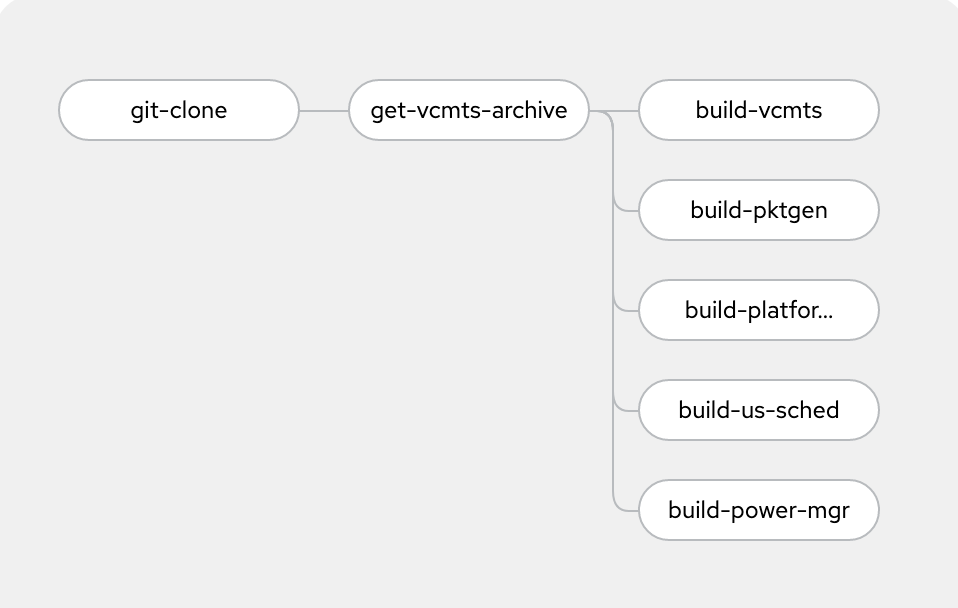
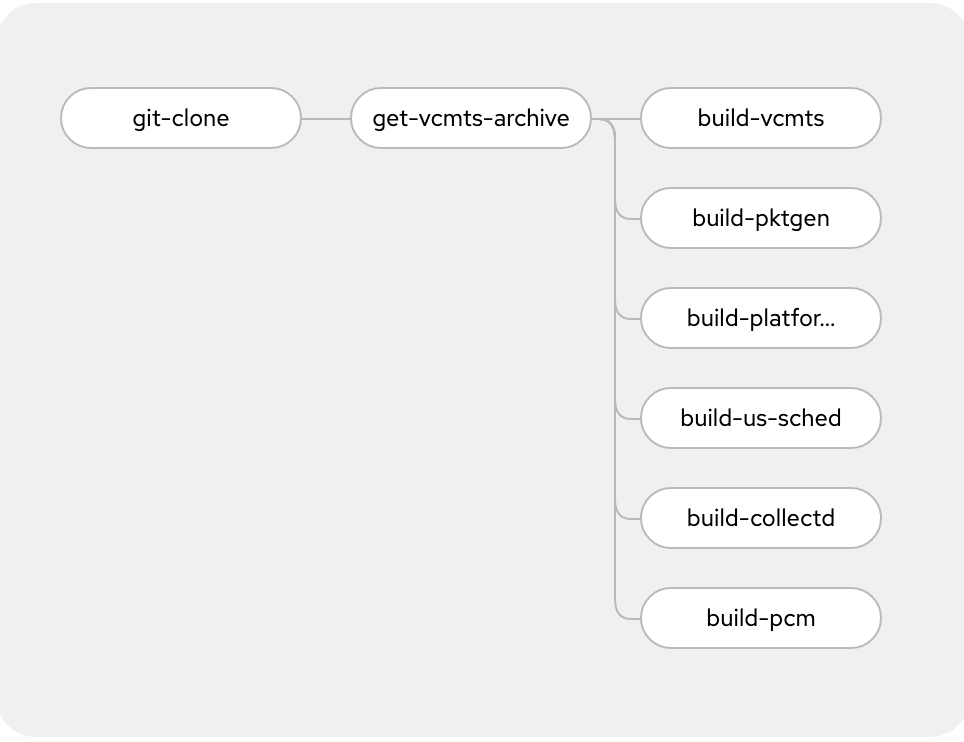
Use PCM to monitor memory bandwidth utilization (#5)
* Update docs

* Add grafana instance and dashboard

* Collectd build scripts

* Update pipeline to build collectd

* Create ingress for Grafana

* Do not source local build var

* Add missing namespace to registry url

* Update collectd to publish metrics

* Attempt to integrate metrics in grafana

* Add support for collectd monitoring and metrics scrapping

* Update vcmts and collectd

* Added missing plugins on Grafana dashboards

* Added performance profile for pktgen and vcmts

* Activate vCMTS app statistics

* Do not get rpm docs for container build

* Use cpu pinning and disable cpu load balancing

* Initial build for pcm tool

* Fix pcm build

* Comment out local variables

* Fix build in container + add env for vcmts environment

* Fix pcm build

* Add pipeline build for PCM

* Fix pcm chmod command

* Update documentation

* Update doc

Changed region(s): [[0.0605, 0.0938, 0.9384, 0.9062], [0.9081, 0.1562, 0.9384, 0.1875]]

diff --git a/README.md b/README.md
@@ -6,9 +6,10 @@
 - [Introduction](#introduction)
 - [Prerequisities](#prerequisities)
 - [Build Container Images](#build-container-images)
-- [Network Setup](#network-setup)
+- [SRIOV Configurationp](#sriov-configuration)
 - [Monitoring](#monitoring)
 - [Deploy the application](#deploy-the-application)
+- [Start the application](#start-the-application)
 <!-- TOC -->
 
 ## Introduction
@@ -17,27 +18,133 @@ This document describes how to build, install and run the Intel vCMTS reference 
 
 ## Prerequisities
 
+Ensure to have the following elements in hand and/or deployed. For the various operators, following the links to see how they can be deployed.
+
   - Intel vCMTS Package
   - Red Hat OpenShift version 4.8.20
-  - Red Hat OpenShift Data Foundation
-  - Red Hat OpenShift Pipeline
+    - Red Hat OpenShift Data Foundation
+    - [Red Hat OpenShift Pipeline Operator](https://docs.openshift.com/container-platform/4.8/cicd/pipelines/installing-pipelines.html)
+    - [SR-IOV Network Operator](https://docs.openshift.com/container-platform/4.8/networking/hardware_networks/installing-sriov-operator.html)
+    - [Performance Addon Operator](https://docs.openshift.com/container-platform/4.8/scalability_and_performance/cnf-performance-addon-operator-for-low-latency-nodes.html#installing-the-performance-addon-operator_cnf-master)
+    - [Grafana Operator](https://operatorhub.io/operator/grafana-operator)
+  - Helm 3
   - Podman / Buildah (for local build only)
-  - Helm 3 (for local build only)
 
 ## Build Container Images
 They are two ways to build the vCMTS related applications, please see [build options](build/README.md).
 
-## Network Setup
+## Node configuration
+In order to enable advanced node performance tunings, we are using the Performance Addon Operator.
 
-#### SRIOV Resource pools
+The setup is comprised of two servers, one dedicated for packet generation, and one dedicated to run the vCMTS.
 
-We need to split virtual functions (VFs) from the same physical function (PF) into multiple resource pools in order to segragate and dedicate traffic per VF for Upstream and Downstream.
+Both servers need to be configured with appropriate CPU isolation and Hugepages. Their corresponding profile has been defined and can be applied as follow
 
-Each PF is divided into 8 VFs:
+~~~
+oc apply -f config/pao/vcmts-profile.yaml
+oc apply -f config/pao/pktgen-profile.yaml
+~~~
+
+## SRIOV Configuration
+
+Both servers are connected back-to-back through E810 network interface, that each of two ports.
+
+Virtual functions (VFs) from the same physical function (PF) are split into two resource pools in order to segragate and dedicate  Upstream and Downstream traffic.
+
+As such, each PF is divided into 8 VFs:
 - even VFs are be for upstream traffic
 - odd VFs are for downstream traffic
 
-Find the manifest in the [config/sriov folder](config/sriov).
+Here is an overall diagram showing the setup
+
+![](assets/vcmts-intel-lab.png)
+
+Start by applying the `SriovNetworkNodePolicy` to configure the VF in the PFs.
+~~~
+oc apply -f config/sriov/node-policy/vcmts-us.yaml
+oc apply -f config/sriov/node-policy/vcmts-ds.yaml
+oc apply -f config/sriov/node-policy/pktgen-us.yaml
+oc apply -f config/sriov/node-policy/pktgen-ds.yaml
+~~~
+
+Then create the `SriovNetwork` which will consume the resources previously created.
+
+~~~
+oc apply -f config/sriov/network/vcmts-us-nw.yaml
+oc apply -f config/sriov/node-policy/vcmts-ds-nw.yaml
+oc apply -f config/sriov/node-policy/pktgen-us-nw.yaml
+oc apply -f config/sriov/node-policy/pktgen-ds-nw.yaml
+~~~
+
+The SR-IOV operator will generate `NetworkAttachmentDefinition` out of the created `SriovNetwork`. This is what will be used in the pod definition to attach it to an VF interface as defined in the network definition.
+You can verify by running the following command.
+~~~
+$ oc get net-attach-def -n vcmts-build
+NAME        AGE
+pktgen-ds   15d
+pktgen-us   15d
+vcmts-ds    15d
+vcmts-us    15d
+~~~
+
+## Monitoring
+
+In order to monitor the overall solution's performance and health of the systems, the vCMTS comes with pre-built Grafana dashboard and monitoring capabilities.
+These monitoring capabilities presently require a high level of privilege, given they rely on a shared collectd socket.
+
+As such, some ordering is required during the setup, to fulfill dependencies. First collectd needs to be deployed, and then PCM can be deployed. Only after that, you can move to deploying the vCMTS application.
+
+Start by setup OpenShift Prometheus to scrape user projects metrics; this will enable the collection of metrics from projects that are not system project (i.e. none openshift-* projects)
+```
+oc apply -f config/monitoring/prometheus-enable-user-workload.yaml
+```
+
+Load vCMTS Grafana Dashboard
+```
+oc kustomize config/monitoring/dashboards | oc apply -f -
+```
+
+Create Grafana Instance
+```
+oc create -f config/monitoring/grafana.yaml
+```
+
+Configure Grafna to use OpenShift thanos as proxy data source to retrieve prometheus data.
+```
+oc adm policy add-cluster-role-to-user cluster-monitoring-view -z grafana-serviceaccount -n vcmts-build
+BEARER_TOKEN=$(oc serviceaccounts get-token grafana-serviceaccount -n vcmts-build)
+
+echo "apiVersion: integreatly.org/v1alpha1
+kind: GrafanaDataSource
+metadata:
+  name: prometheus-grafanadatasource
+  namespace: vcmts-build
+spec:
+  datasources:
+    - access: proxy
+      editable: true
+      isDefault: true
+      jsonData:
+        httpHeaderName1: 'Authorization'
+        timeInterval: 5s
+        tlsSkipVerify: true
+      name: prometheus
+      secureJsonData:
+        httpHeaderValue1: 'Bearer ${BEARER_TOKEN}'
+      type: prometheus
+      url: 'https://thanos-querier.openshift-monitoring.svc.cluster.local:9091'
+  name: prometheus-grafanadatasource.yaml" | oc apply -f -
+```
+
+Deploy collectd and collectd-exporter, along with OpenShift Prometheus metrics scrapper `ServiceMonitor`
+```
+oc create -f deploy/test-pod/collectd.yaml
+```
+
+Deploy PCM after collectd has been deployed, given it rely on the collectd socket to send the memory bandwidth utilization data.
+~~~
+oc create -f deploy/test-pod/pcm.yaml
+~~~
 
 ## Monitoring
 
@@ -90,19 +197,39 @@ oc create -f deploy/test-pod/collectd.yaml
 
 ## Deploy the application
 
-TODO:
-  Create helm chart repository using static pages
+Now that the monitoring stack is up and running, you can deploy the applications.
 
-#### vCMTS-D
-
-~~~
-helm install vcmts . -n vcmts-build
-helm uninstall vcmts -n vcmts-build
-~~~
-
-#### pktgen
+Start by deploying the vCMTS application
 
 ~~~
-helm install pktgen . -n vcmts-build
-helm uninstall pktgen -n vcmts-build
+helm install vcmtsd deploy/patches/vcmtsd -n vcmts-build
+~~~
+
+Then deploy the pktgen application
+
+~~~
+helm install pktgen deploy/patches/pktgen -n vcmts-build
+~~~
+
+## Start the application
+
+Finally, we are now ready to start the application.
+
+First, get into the vCMTS terminal and execute the following command
+~~~
+/home/vcmts/vcmts-config/run_vcmtsd.sh
+~~~
+
+Then, get into the pktgen terminal, and execute the following command
+~~~
+/home/vcmts/pktgen-config/run_pktgen.sh
+~~~
+This will give you access to the pktgen cli. There, you can start sending traffic using the following command
+~~~
+start 0-1
+~~~
+And finally, from there, you can set the traffic rate to send either upstream or downstream. Here are examples:
+~~~
+set 0 rate 8
+set 1 rate 8
 ~~~

diff --git a/build/README.md b/build/README.md
@@ -57,7 +57,7 @@ $ oc apply -f pipeline/vcmts-build-workspace-pvc.yaml
 
 ##### Pipeline tasks
 
-The pipeline is comprised of 4 tasks, as follow:
+The pipeline is comprised of 8 tasks, as follow:
 
 ![Architecture](../assets/pipeline-overview.png)
 
